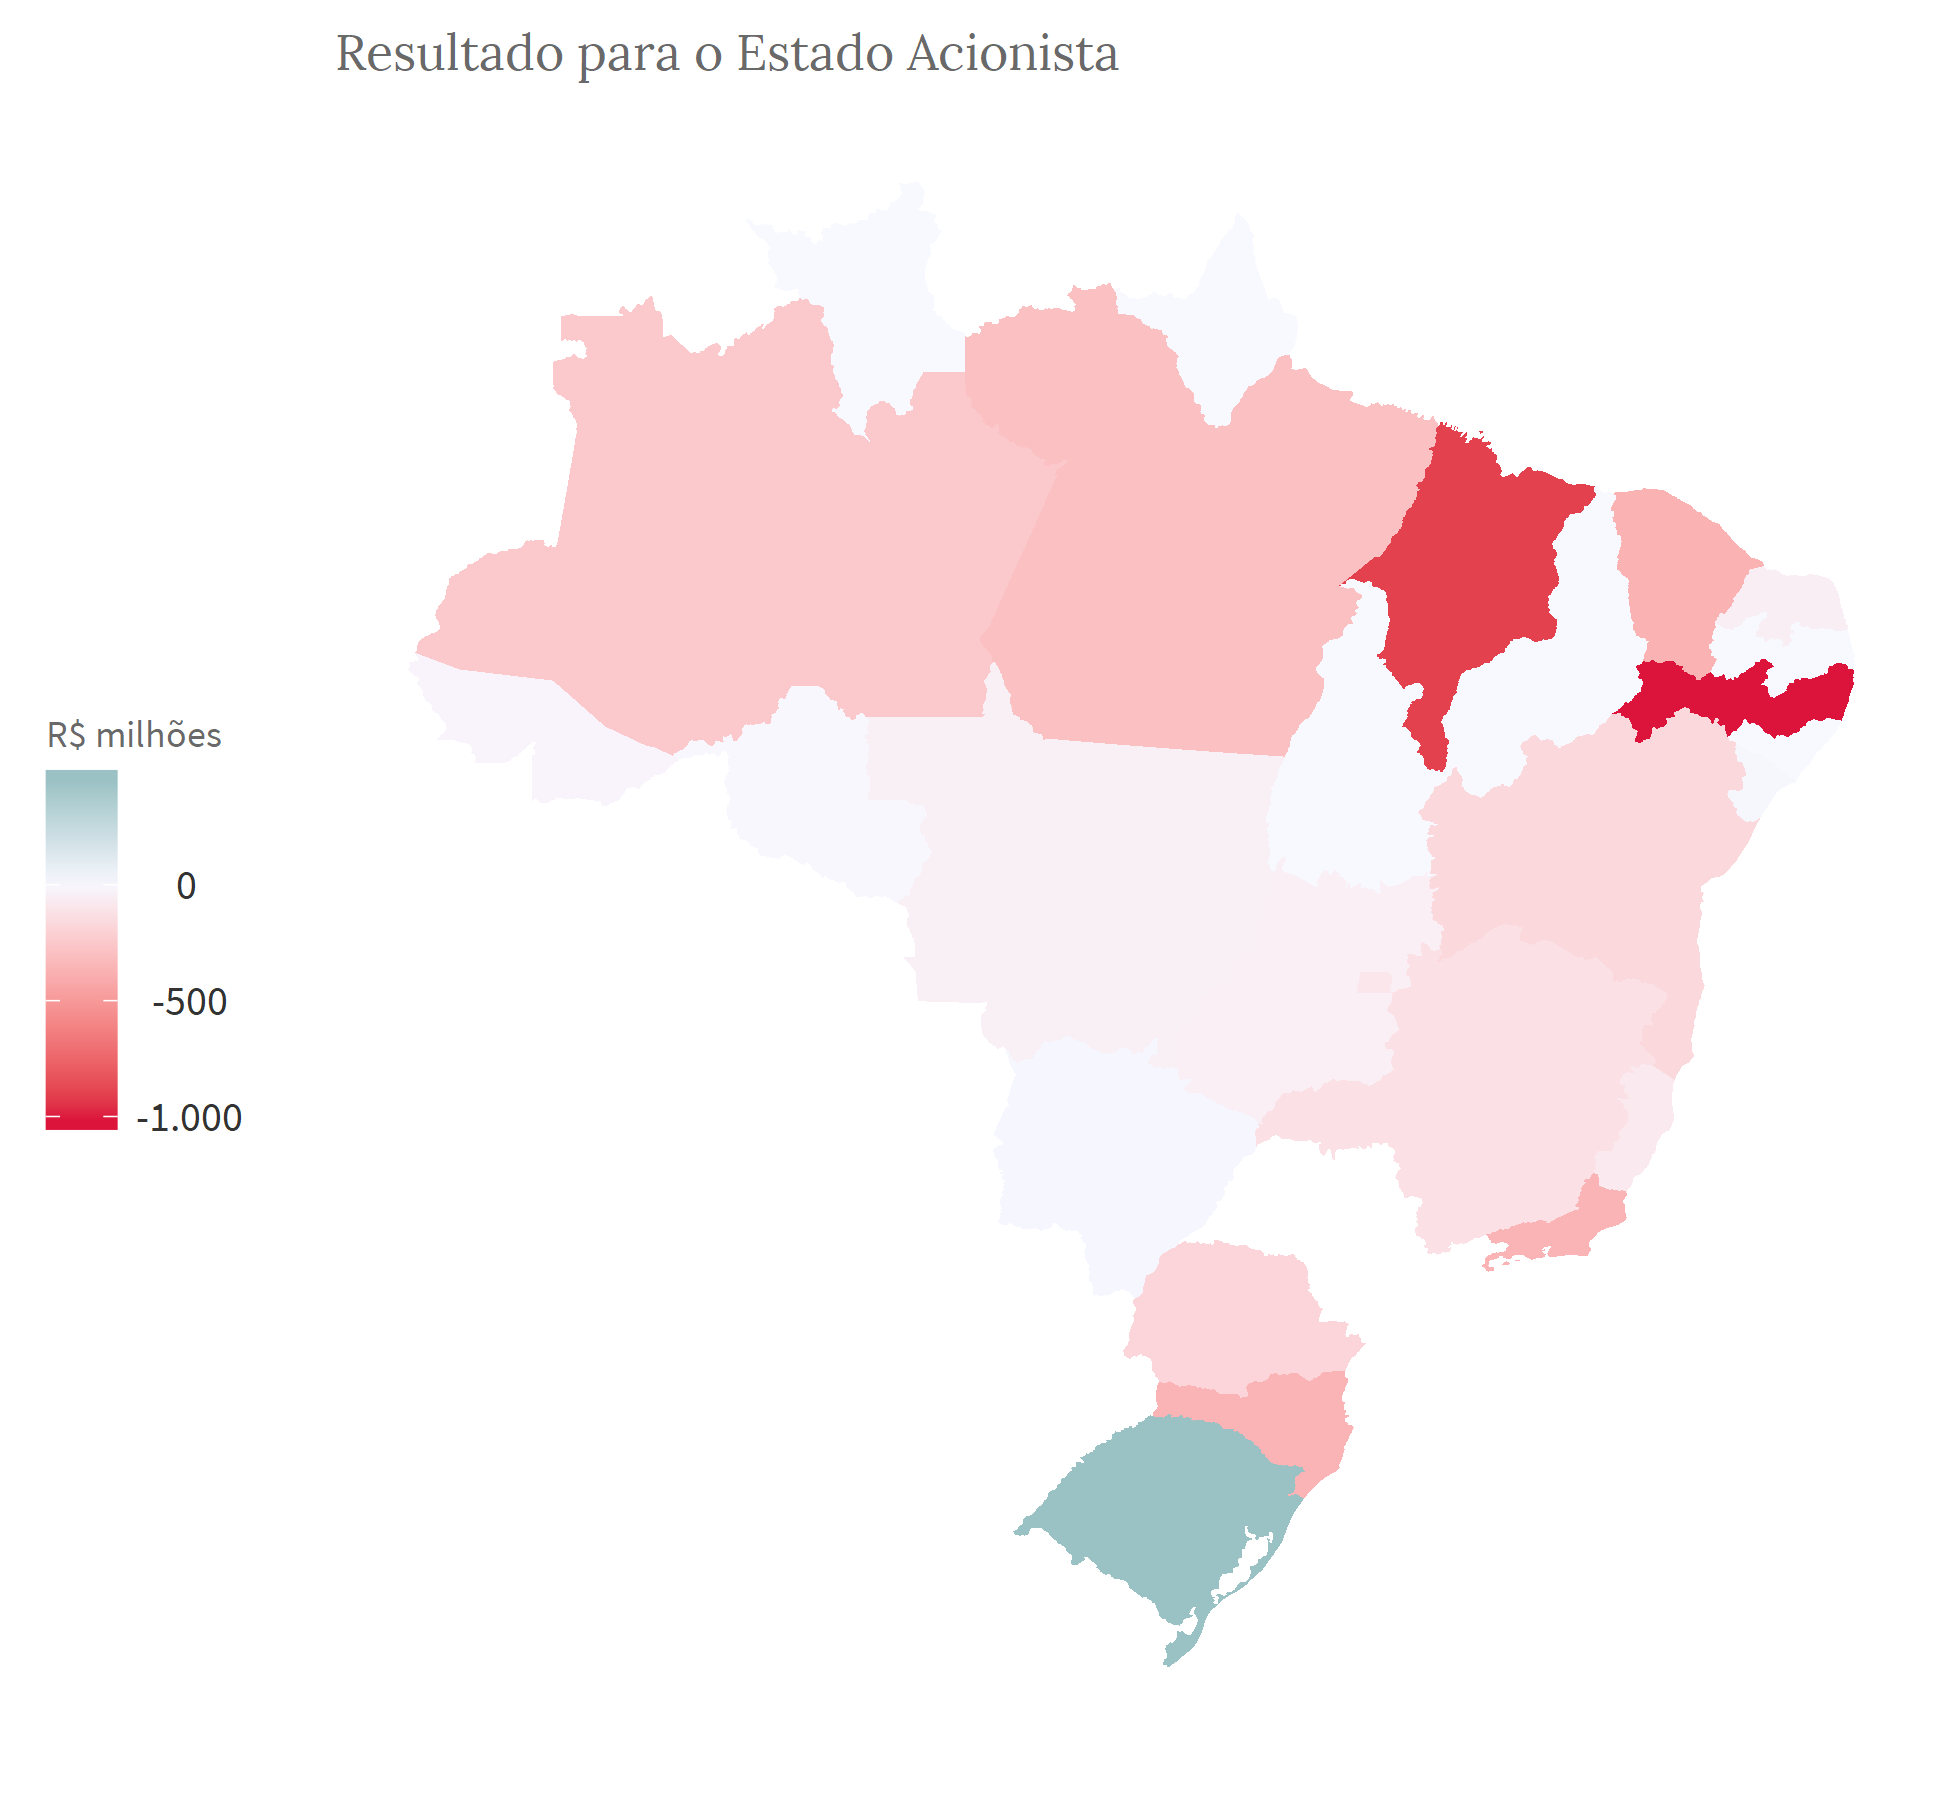
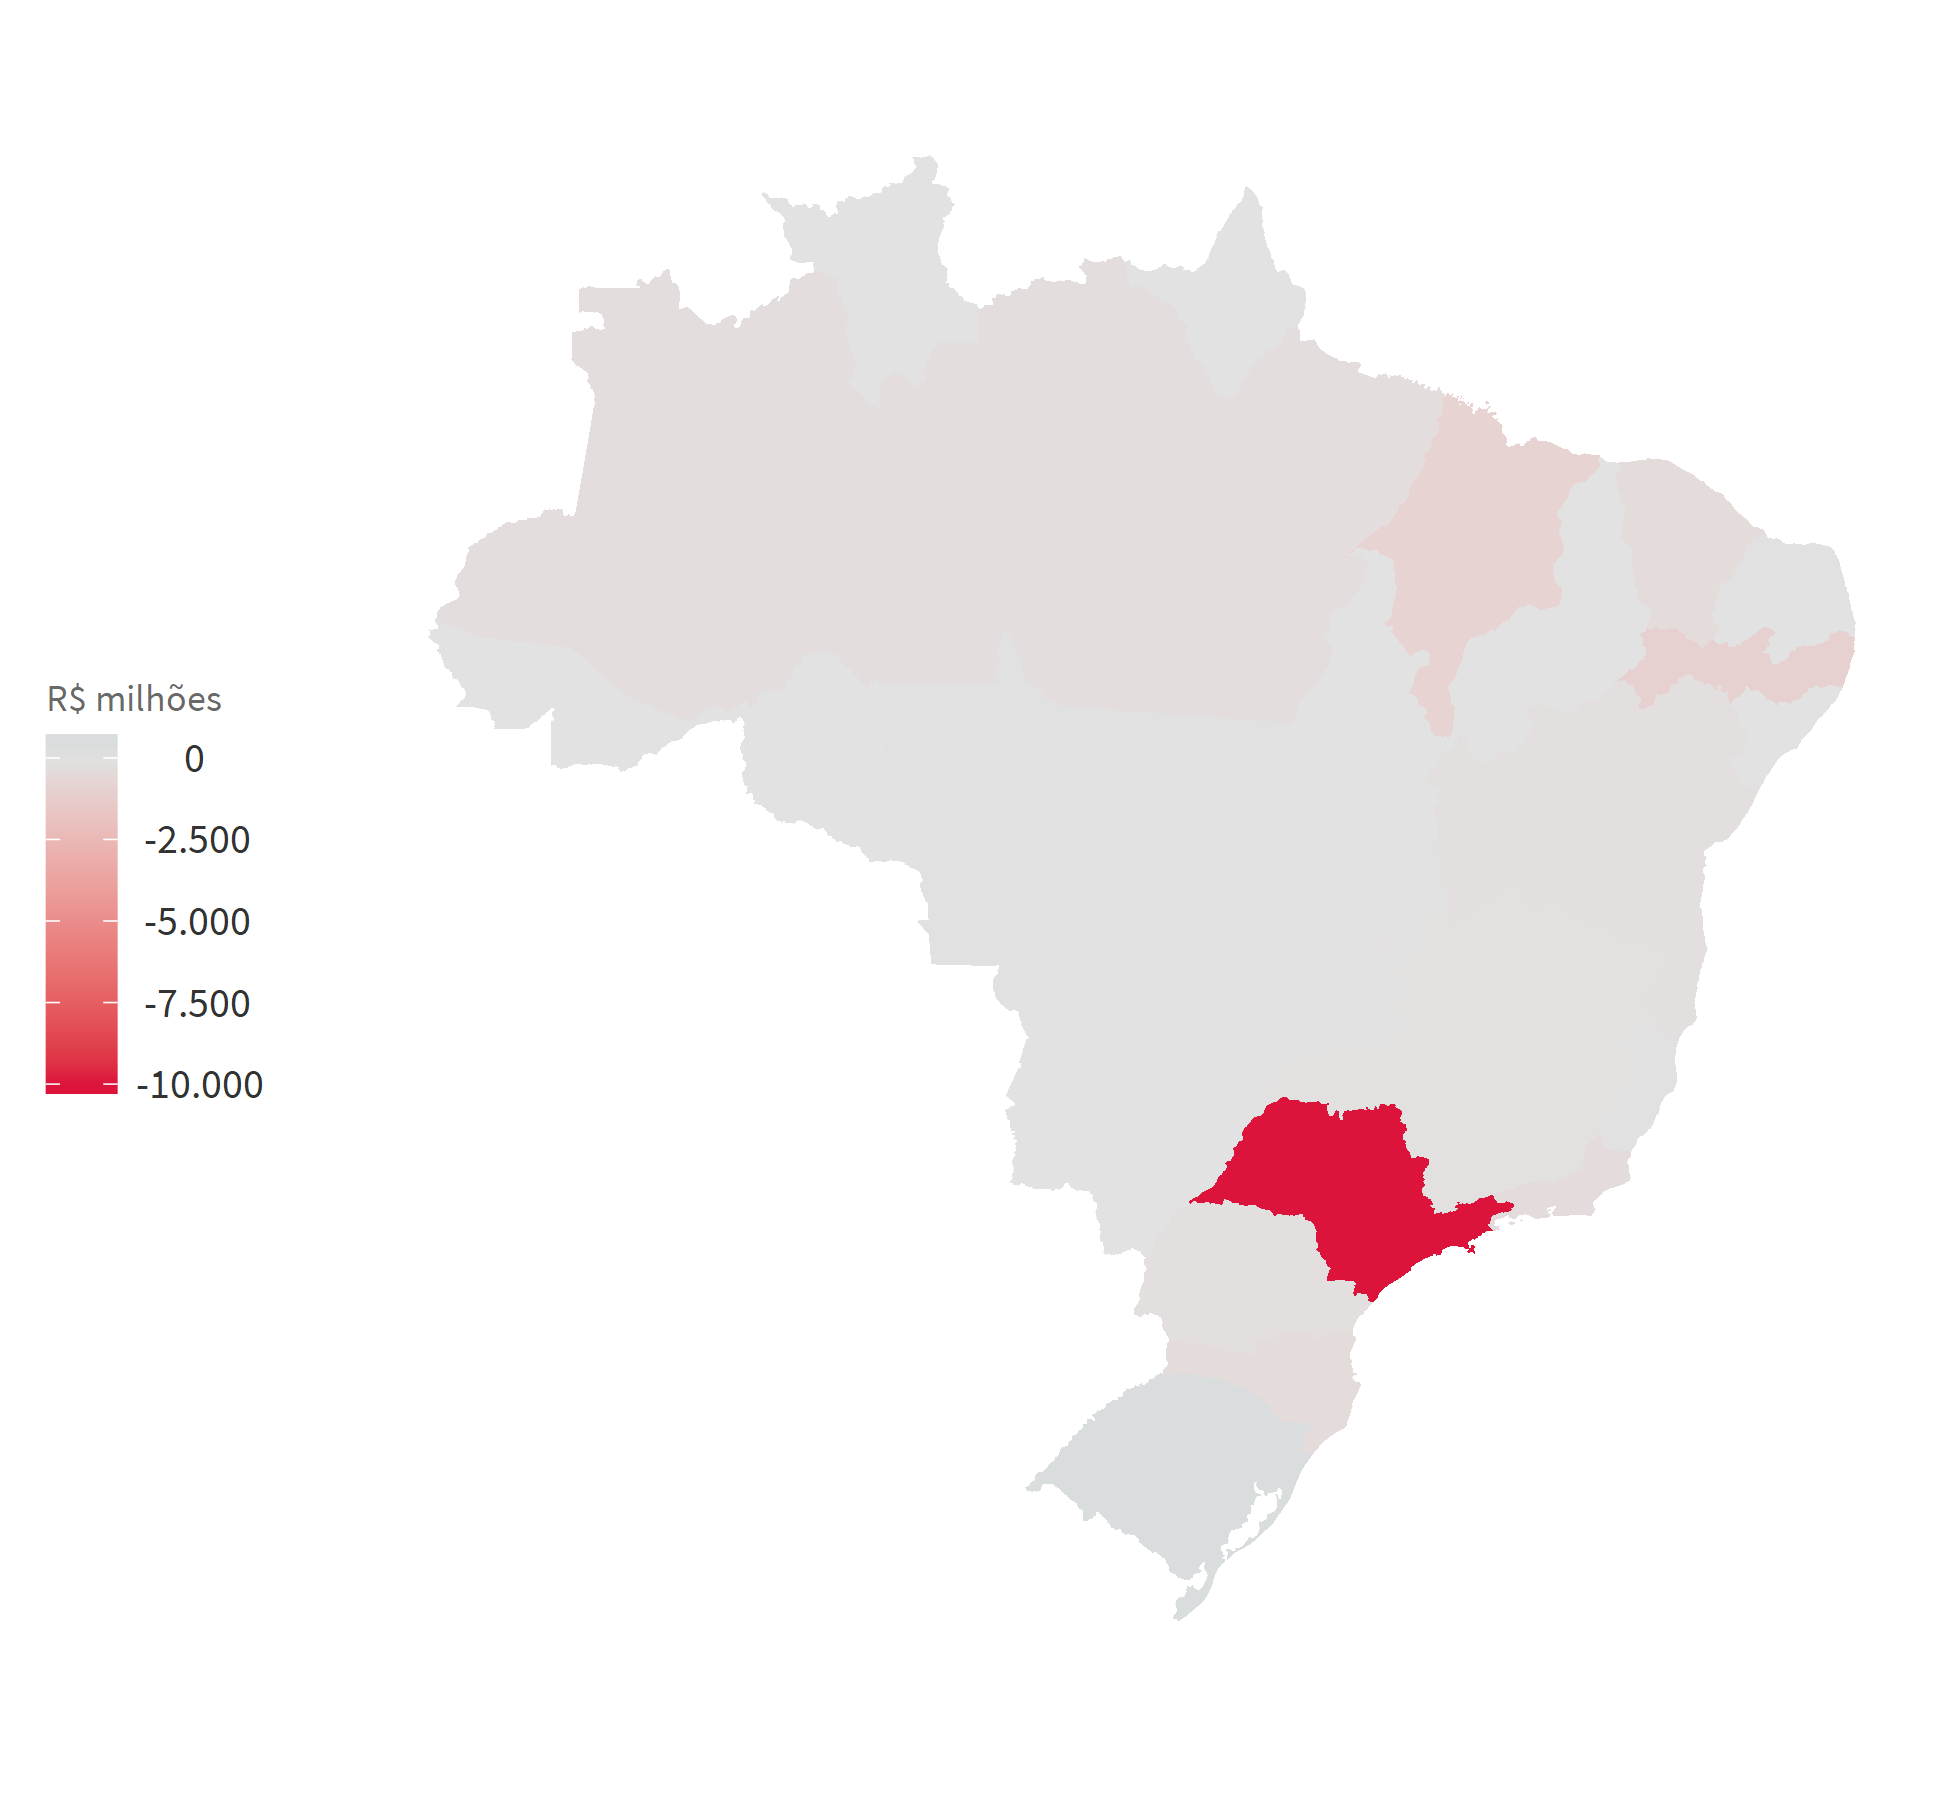
sobe

diff --git a/index.html b/index.html
@@ -179,13 +179,18 @@
 
         <p>No entanto, é importante ressaltar que 120 das 258 empresas (46,5%) não informaram valores para quaisquer dessas operações &mdash; sejam dividendos, subvenções ou aumentos de capital.</p>
 
-        <p>O mapa abaixo mostra, em termos agregados, o resultado líquido (entradas menos saídas) dos Estados nas suas relações com as estatais estaduais. Em 2018, os únicos Estados que receberam mais recursos das estatais do que transferiram foram o Rio Grande do Sul, Mato Grosso do Sul e Sergipe. Observe-se que as empresas do Estado de São Paulo, que receberam repasses líquidos no montante de R$ 10 bilhões, representaram 72% do resultado líquido negativo total. Assim, por corresponder a quase o triplo da soma dos valores de todos os outros estados, o Estado de São Paulo não é mostrado no gráfico.</p>
+        <p>O mapa abaixo mostra, em termos agregados, o resultado líquido (entradas menos saídas) dos Estados nas suas relações com as estatais estaduais. Em 2018, os únicos Estados que receberam mais recursos das estatais do que transferiram foram o Rio Grande do Sul, Mato Grosso do Sul e Sergipe. Observe-se que as empresas do Estado de São Paulo, que receberam repasses líquidos no montante de R$ 10 bilhões, representaram 72% do resultado líquido negativo total. Assim, como o Estado de São Paulo corresponde a quase o triplo da soma dos valores de todos os outros estados, um segundo gráfico demonstra os valores excluindo-se esse Estado.</p>
 
         <figure class="plot-container">
                 <h3 class="plot-title">Resultado Líquido das Empresas para o Estado Acionista</h3>
-                <h4 class="plot-subtitle">O Estado de São Paulo, que efetuou transferências líquidas para suas empresas no montante de R$ 10 bilhões (ou 72% do total nacional), não é mostrado para evitar uma distorção na escala do gráfico.</h4>
                 <img class="plot" style="width:85%;" src="./plots/mapa_result.png" alt="Mapa colorido conforme o valor do resultado líquido das empresas">
         </figure>
+
+        <figure class="plot-container">
+            <h3 class="plot-title">Resultado Líquido das Empresas para o Estado Acionista &mdash; exceto São Paulo</h3>
+            <h4 class="plot-subtitle">O Estado de São Paulo, que efetuou transferências líquidas para suas empresas no montante de R$ 10 bilhões (ou 72% do total nacional), não é mostrado para evitar uma distorção na escala do gráfico.</h4>
+            <img class="plot" style="width:85%;" src="./plots/mapa_result_semSP.png" alt="Mapa colorido conforme o valor do resultado líquido das empresas">
+    </figure>
 
 
         
